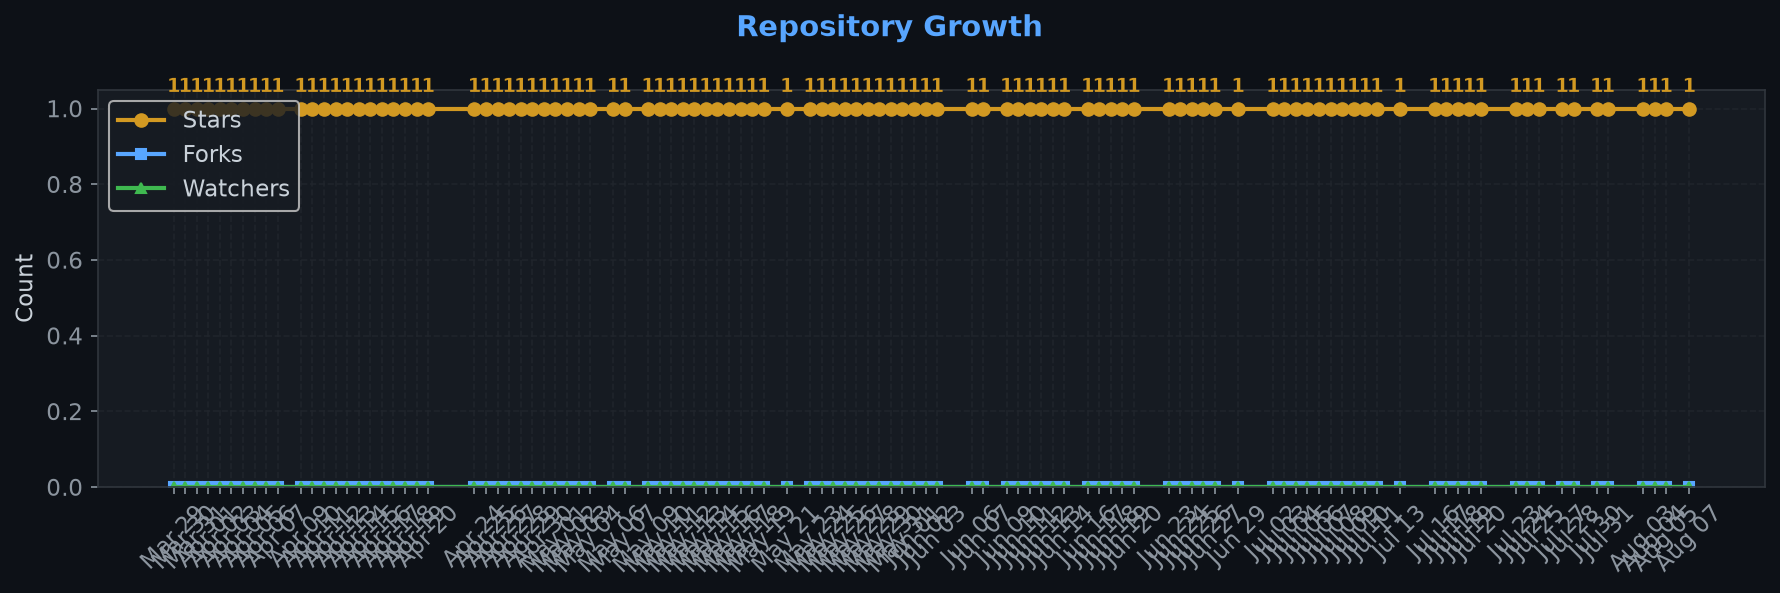
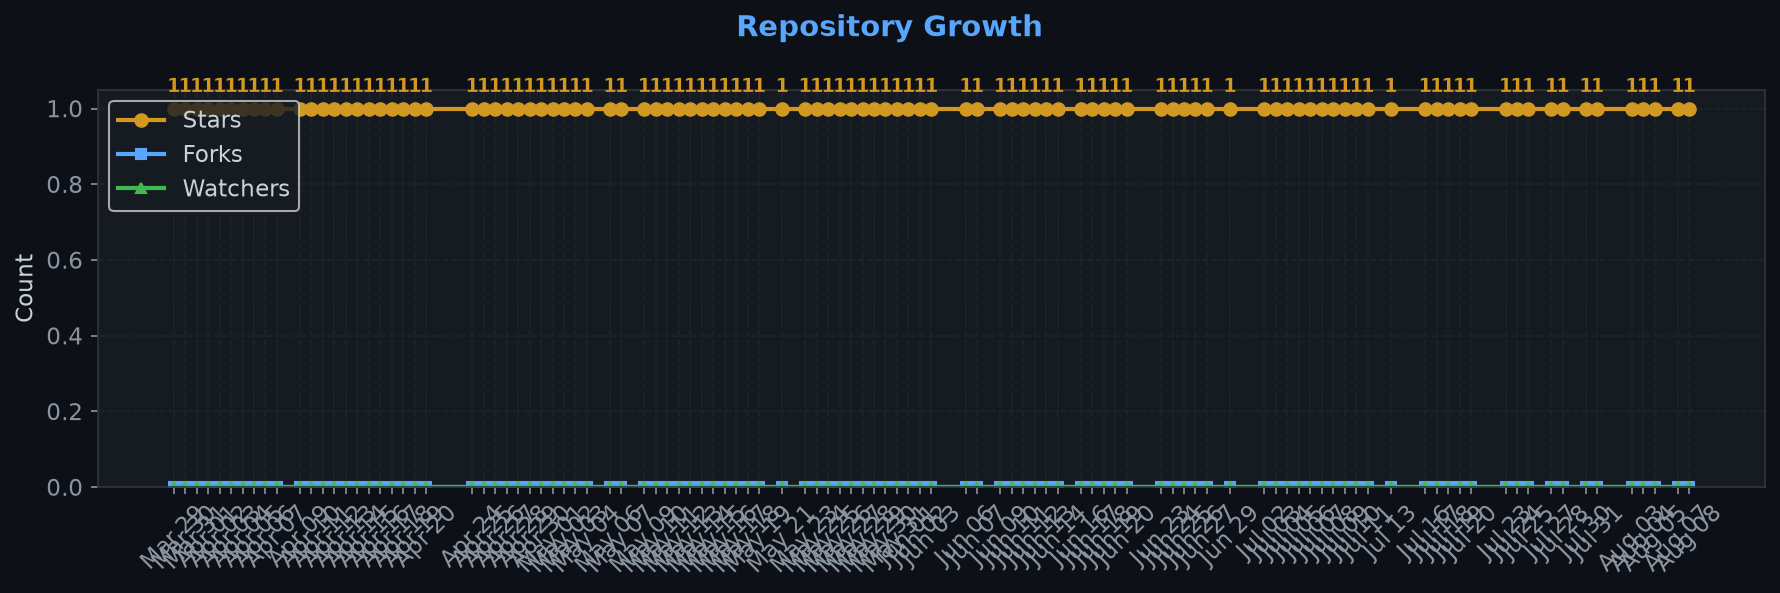
chore: Full traffic snapshot 2026-08-08_06:42

Changed region(s): [[0.1236, 0.7892, 0.9888, 0.9713], [0.1236, 0.1214, 0.9579, 0.2125], [0.8652, 0.7892, 0.8961, 0.8196]]

diff --git a/.github/traffic/SUMMARY.md b/.github/traffic/SUMMARY.md
@@ -1,7 +1,7 @@
 # Repository Traffic Dashboard
 
-**Last updated:** 2026-08-07T18:48:28Z
-**Days tracked:** 105 | **Download snapshots:** 216 (hourly)
+**Last updated:** 2026-08-08T06:42:44Z
+**Days tracked:** 106 | **Download snapshots:** 218 (hourly)
 
 ---
 
@@ -30,9 +30,9 @@
 
 ![Conversion](charts/conversion.png)
 
-> **14-day conversion:** 102 of 19 visitors cloned or downloaded (**536.8%**)
+> **14-day conversion:** 103 of 19 visitors cloned or downloaded (**542.1%**)
 >
-> Unique cloners: 41 | Release downloads: 61
+> Unique cloners: 41 | Release downloads: 62
 
 ---
 
@@ -42,9 +42,9 @@
 
 | Channel | Count |
 |---------|-------|
-| Zip Downloads | 61 |
+| Zip Downloads | 62 |
 | Git Clones (14-day) | 217 |
-| **Total Acquisitions** | **278** |
+| **Total Acquisitions** | **279** |
 
 ---
 
